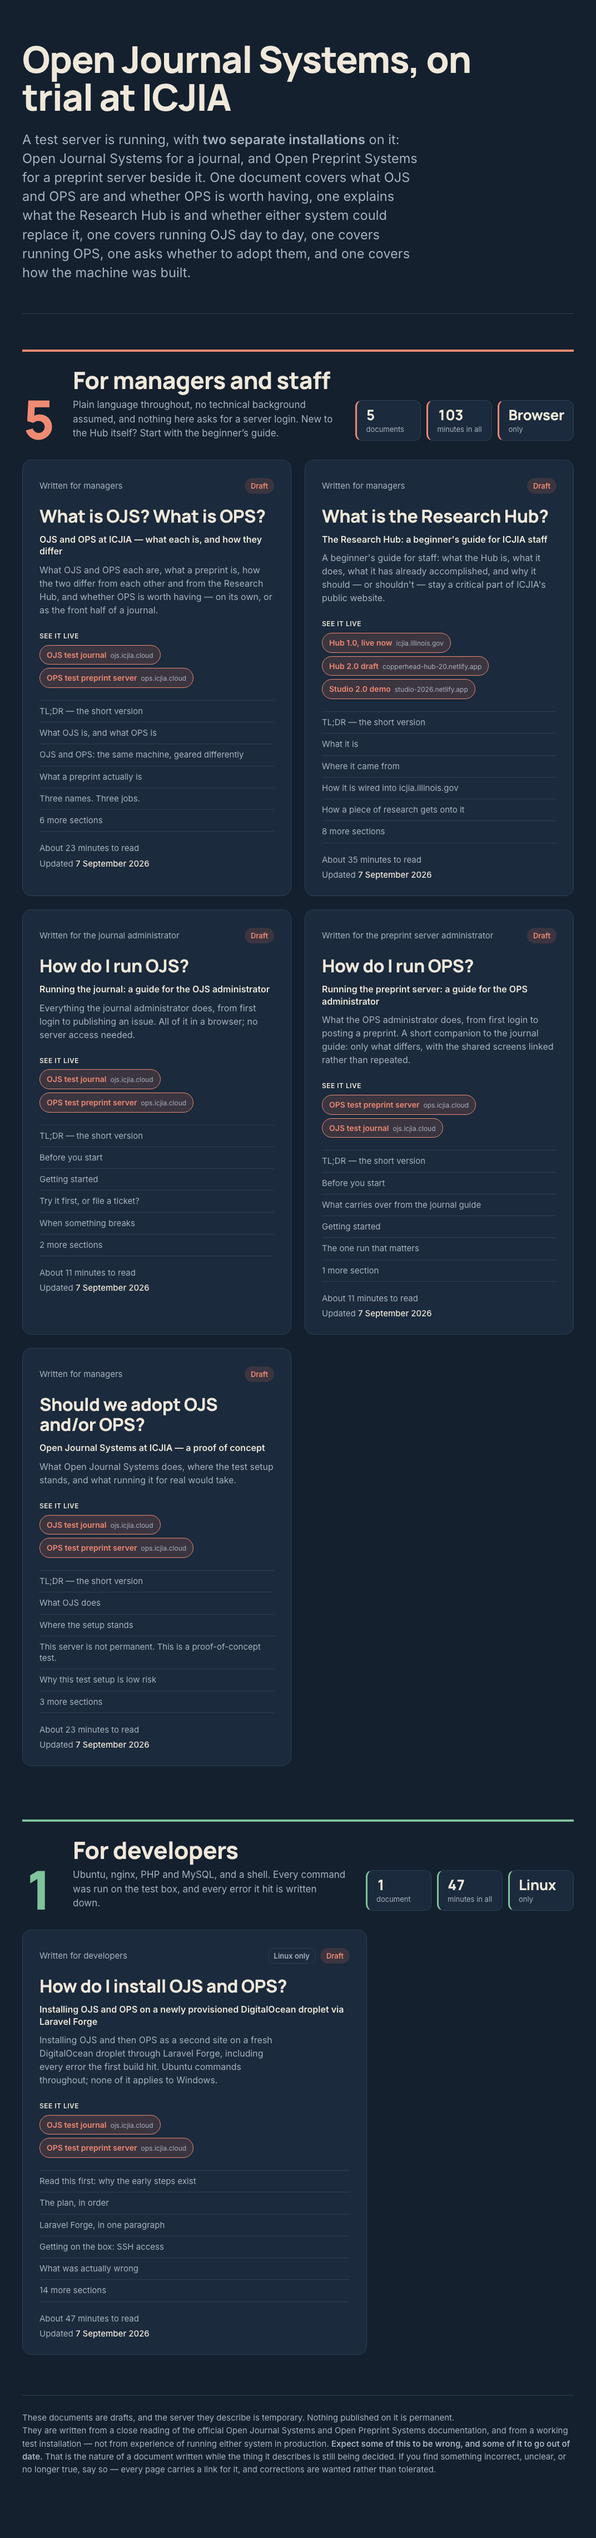
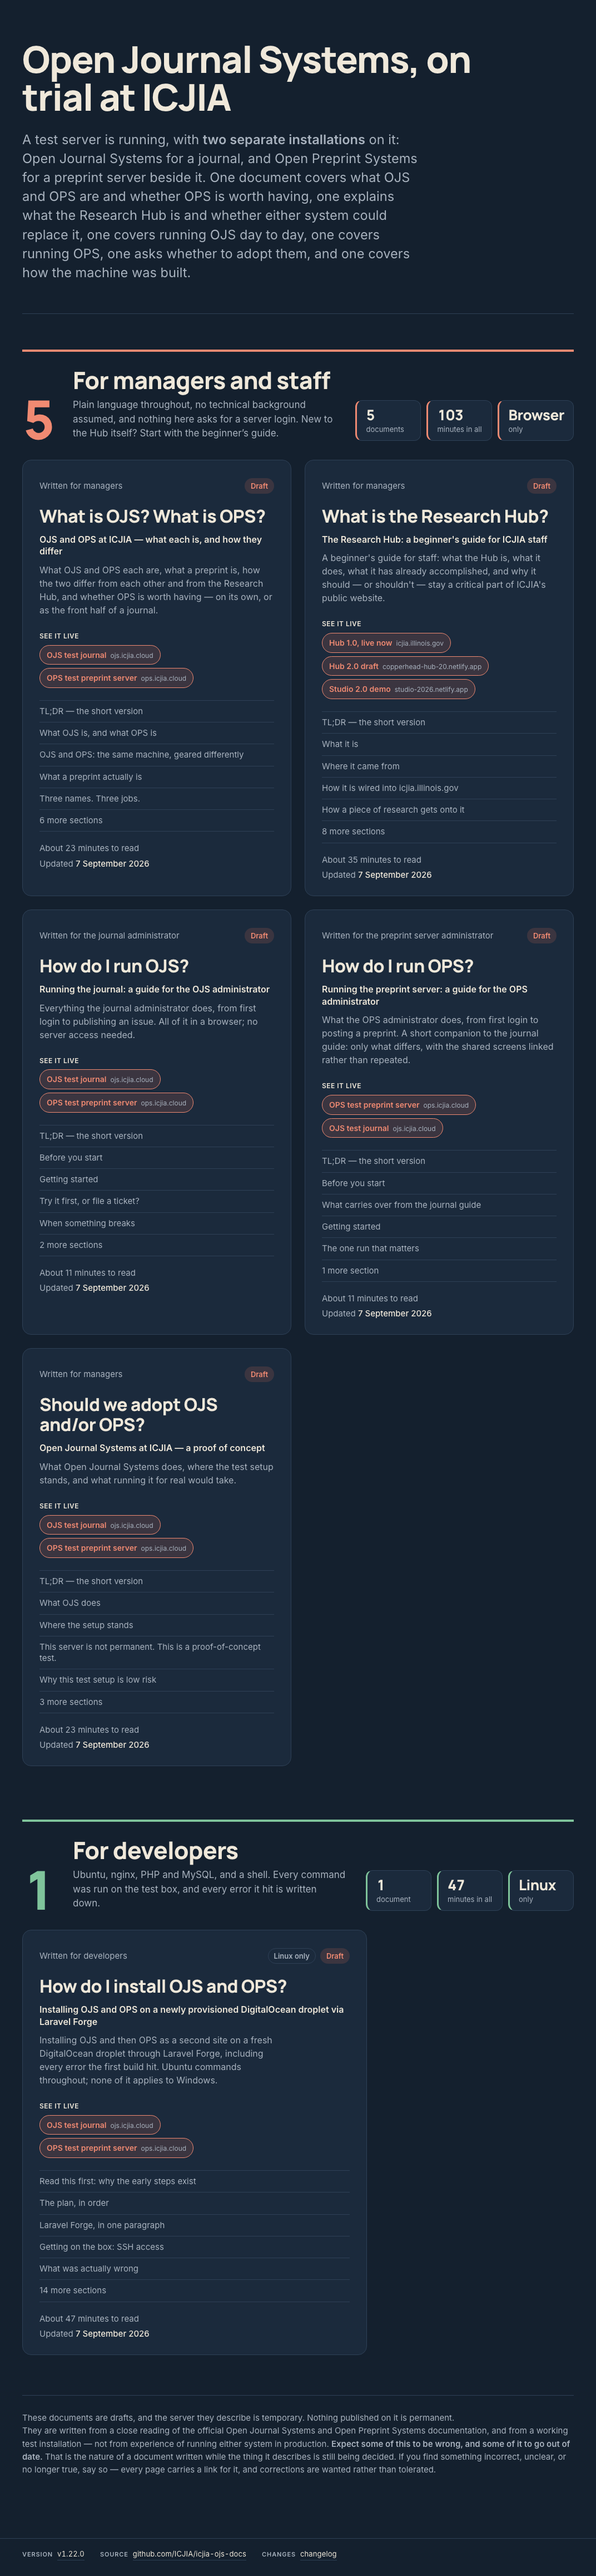
Release 1.22.0: a status bar on every page
The foot of every page now carries the version, read from package.json at
build time so it cannot disagree with the release and linked to that release;
a link to the repository; the commit, when Netlify built it (from COMMIT_REF);
and the changelog. One component used by both shells, with its stylesheet
inlined after the chrome on document pages so it wins the cascade against each
document's own footer rule. The build test asserts the version the portal
states, and the README describes the bar.

Verified: npm run check, build and 211 tests green; axe-core 0 violations on
the portal and a document page.

diff --git a/src/styles/status-bar.css b/src/styles/status-bar.css
@@ -1,0 +1,62 @@
+/* The status bar at the foot of every page. Loaded by both shells: bundled on the
+   portal, inlined after the chrome on document pages so it wins the cascade. */
+
+/*
+ * Foot of every page, portal and documents alike: the version, the repository,
+ * the commit when Netlify built it, and the changelog. Every property a source
+ * document's bare `footer {}` rule sets is set again here, so the bar looks the
+ * same under each document's own stylesheet.
+ */
+.px-status {
+  display: flex;
+  flex-wrap: wrap;
+  align-items: baseline;
+  gap: 6px 28px;
+  max-width: var(--page-max);
+  margin: 0 auto;
+  padding: 18px 40px 28px;
+  border-top: 1px solid var(--rule);
+  font-family: var(--sans);
+  font-size: 13px;
+  line-height: 1.5;
+  letter-spacing: 0.01em;
+  color: var(--paper-dim);
+}
+
+.px-status-item {
+  display: inline-flex;
+  align-items: baseline;
+  gap: 8px;
+}
+
+.px-status-key {
+  font-size: 11px;
+  font-weight: 600;
+  letter-spacing: 0.08em;
+  text-transform: uppercase;
+}
+
+.px-status a {
+  color: var(--paper);
+  text-decoration: none;
+  border-bottom: 1px solid var(--rule);
+  font-variant-numeric: tabular-nums;
+}
+
+.px-status a:hover,
+.px-status a:focus-visible {
+  color: var(--pencil);
+  border-bottom-color: var(--pencil);
+}
+
+.px-status a:focus-visible {
+  outline: 2px solid var(--pencil);
+  outline-offset: 3px;
+}
+
+@media (max-width: 640px) {
+  .px-status {
+    padding: 14px 22px 24px;
+    gap: 4px 18px;
+  }
+}

diff --git a/tests/build-output.test.ts b/tests/build-output.test.ts
@@ -3,6 +3,7 @@ import { execFileSync } from 'node:child_process';
 import { readFileSync, existsSync } from 'node:fs';
 import { fileURLToPath } from 'node:url';
 import { documents } from '../src/content/documents.ts';
+import pkg from '../package.json';
 
 const root = fileURLToPath(new URL('..', import.meta.url));
 const dist = (p: string) => fileURLToPath(new URL(`../dist/${p}`, import.meta.url));
@@ -29,6 +30,9 @@ describe('build output', () => {
     // the decoded text, or this asserts on the escaping rather than on whether
     // the card was rendered.
     const html = decode(read('index.html'));
+    // The status bar states the release it belongs to, read from package.json.
+    expect(html, 'status bar does not carry the package.json version').toContain(`v${pkg.version}`);
+    expect(html).toContain('github.com/ICJIA/icjia-ojs-docs');
     for (const entry of documents) {
       expect(html, `card missing for ${entry.slug}`).toContain(`/docs/${entry.slug}`);
       expect(html).toContain(entry.question);

diff --git a/README.md b/README.md
@@ -410,6 +410,12 @@ they read the artefact that is about to be published. A failing type check or
 test fails the deploy. The output is plain static files — no adapter, no
 serverless functions — served from the domain root.
 
+Every page ends in a status bar: the version, read from `package.json` at build
+time so it cannot disagree with the release; a link to this repository; the
+commit, when Netlify built it (from `COMMIT_REF`); and the changelog. It is one
+component, [`src/components/StatusBar.astro`](src/components/StatusBar.astro),
+used by both shells, and the build test asserts the version it states.
+
 Document URLs are canonical with a trailing slash (`/docs/droplet-runbook/`).
 The un-slashed form redirects, so prefer the trailing-slash form when sharing a
 link.
@@ -422,7 +428,7 @@ src/
 ├── content/            the document manifest
 ├── lib/                parsing and the document registry
 ├── layouts/            portal and document shells
-├── components/         card, contents panel
+├── components/         card, contents panel, status bar
 ├── styles/             tokens, portal, document chrome
 └── pages/              / and /docs/[slug]
 public/                 favicon, and the banner used as the og:image

diff --git a/CHANGELOG.md b/CHANGELOG.md
@@ -5,6 +5,18 @@ All notable changes to this project are documented here.
 The format follows [Keep a Changelog](https://keepachangelog.com/en/1.1.0/),
 and this project adheres to [Semantic Versioning](https://semver.org/spec/v2.0.0.html).
 
+## [1.22.0] - 2026-09-07
+
+### Added
+
+- **A status bar at the foot of every page:** the version, read from
+  `package.json` at build time so it cannot disagree with the release and
+  linked to that release; a link to the repository; the commit, when Netlify
+  built it; and the changelog. One component used by both shells, with its
+  stylesheet inlined after the chrome on document pages so it wins the cascade
+  against each document's own `footer` rule. The build test asserts the
+  version the portal states.
+
 ## [1.21.1] - 2026-09-07
 
 ### Added
@@ -1107,6 +1119,7 @@ Title II / IITAA review would expect.
 The contrast, heading-order and personal-name changes were made in the source
 documents, so the standalone files carry them too.
 
+[1.22.0]: https://github.com/ICJIA/icjia-ojs-docs/releases/tag/v1.22.0
 [1.21.1]: https://github.com/ICJIA/icjia-ojs-docs/releases/tag/v1.21.1
 [1.21.0]: https://github.com/ICJIA/icjia-ojs-docs/releases/tag/v1.21.0
 [1.20.0]: https://github.com/ICJIA/icjia-ojs-docs/releases/tag/v1.20.0
